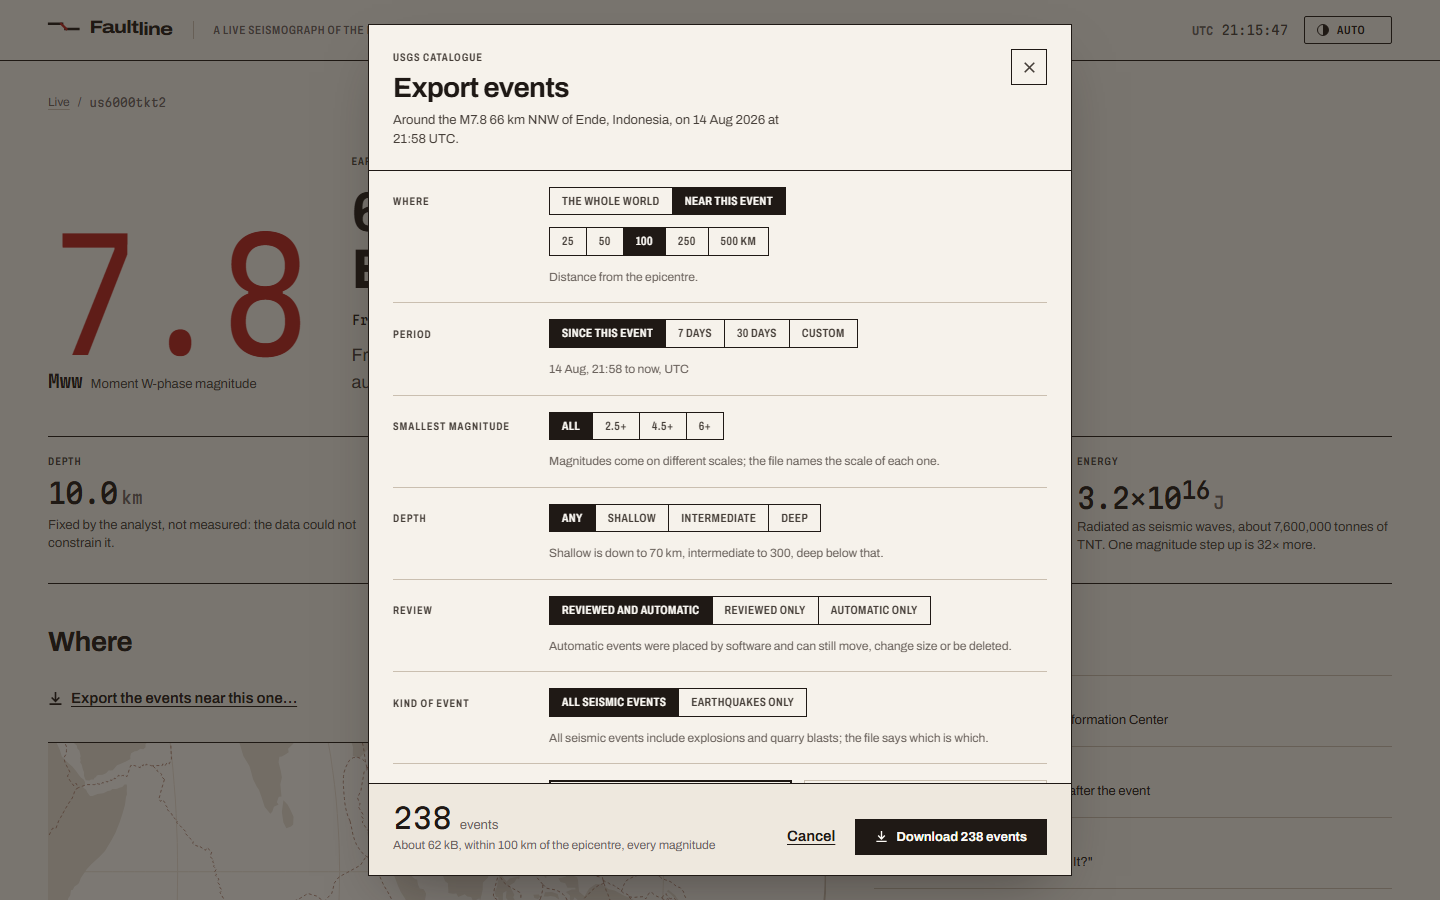
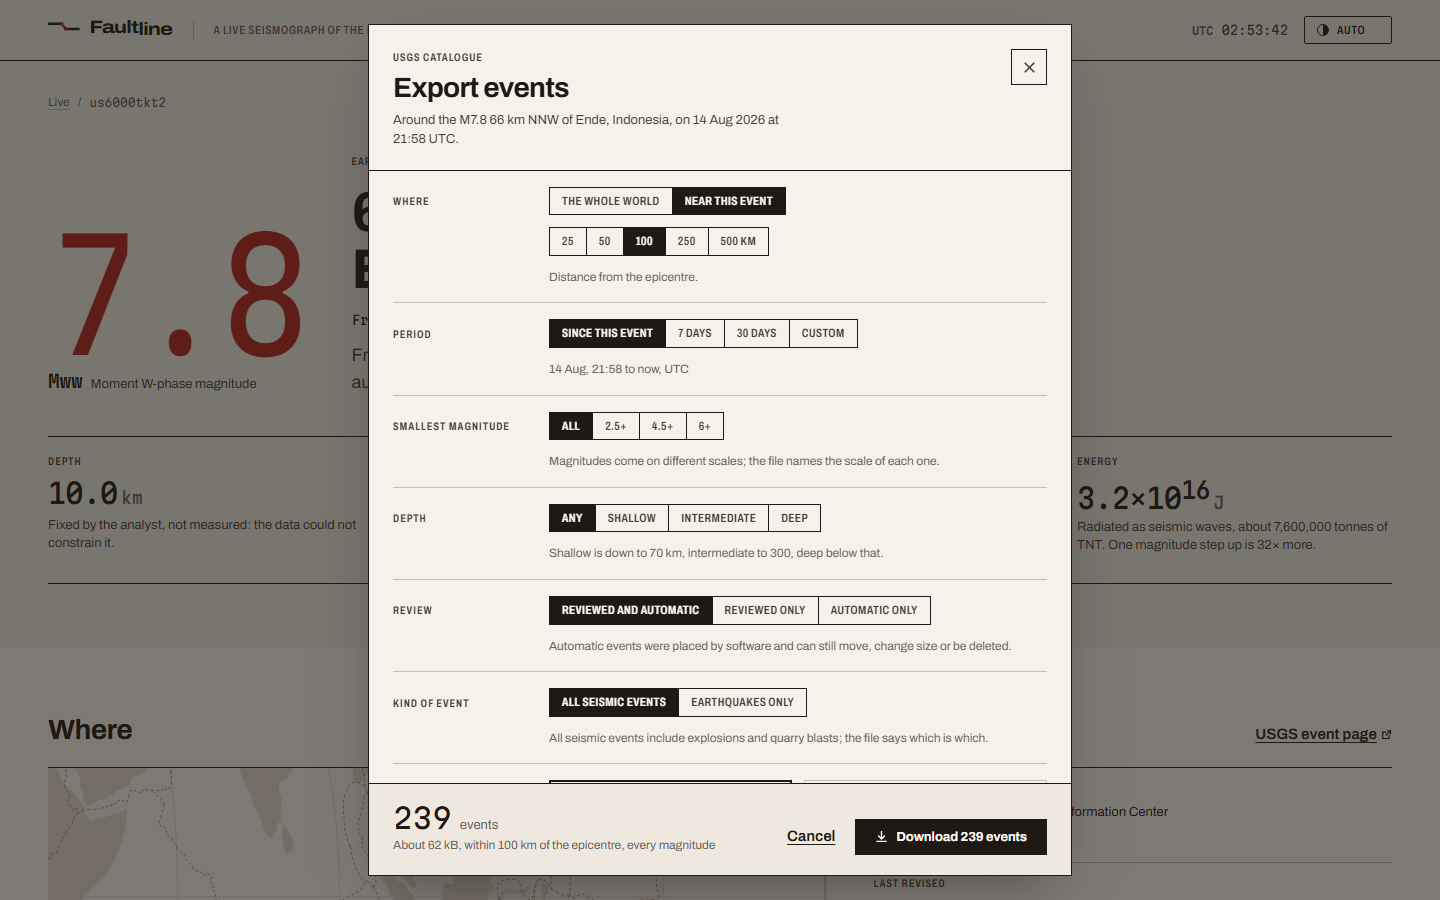
docs: show the event page in bands in the README

diff --git a/README.md b/README.md
@@ -128,7 +128,7 @@ Depths are unsure in two directions. Many are fixed by an analyst when the data 
 - **The log is an index, not a data grid.** Five facets, magnitude, region, depth, review and kind, list their options with the count the list would hold with that option and the other filters kept, so an option that leads nowhere says so before it is followed. The region is read out of the USGS place name, where the Californian networks write California and Mexico as codes and a remote event names only its seismic region. The search matches the place and its region without accents, so "pahala" finds Pāhala, and marks what it found. Where there is room the facets are a column beside the table, and over the table the count leads, then each filter in force as a chip that takes it off. Options and chips are links and the search is a plain form, so all of them work before the page has hydrated, and the long tail of regions opens in a native popover anchored in CSS. Narrower, the facets move into a sheet, and on a phone each event takes two lines; the table spells out its roles in its markup, since restyling rows as grids strips them in some browsers. The export opens on the same filters, as far as the catalogue can select by them, and names the ones it leaves in the log.
 - **Missing data is a value, never a zero.** A magnitude not computed yet shows an em-dash, a depth fixed by an analyst says so instead of posing as a measurement, and every uncertainty sits next to the number it qualifies.
 - **The design system is tokens and cascade layers.** Colours are OKLCH, declared once each with `light-dark()`, so a theme is nothing more than a `color-scheme`. The theme is a cookie the server reads, so the first paint is already right, with no inline script. Archivo and Martian Mono are self-hosted under content-hashed names, preloaded, and backed by local fallbacks whose metrics are matched with Capsize, so the swap does not move the layout. Icons are drawn for the app in the wordmark's square-ended stroke, on a 16 px grid, inlined as SVG by one component, and decoration wherever a word already says the same.
-- **The page is in bands, laid out by the grid.** Each section runs edge to edge, taking turns between the page's colour and a raised one, while its content keeps to the page's column. The page is a grid whose outer tracks are the gutters, and each band a subgrid across all three, so no wrapper repeats the page's width and nothing in a band can drift out of line with the rest. On a raised band a chart is drawn on the band itself, and a page in bands ends on its last one, with no gap or rule between it and the footer.
+- **Pages are in bands, laid out by the grid.** Each section runs edge to edge, taking turns between the page's colour and a raised one, while its content keeps to the page's column. A page is a grid whose outer tracks are the gutters, and each band a subgrid across all three, so no wrapper repeats the page's width and nothing in a band can drift out of line with the rest. On an event's page the map and its record sit side by side on one grid, each taking both its rows through a subgrid, so their headings share a line and their frames start and end on the same rules. On a raised band a chart is drawn on the band itself, and a page that ends on one runs straight into the footer, with no gap or rule between them.
 - **Two dependencies are patched, each with its reason.** TanStack Query read one symbol off the whole `@angular/core` namespace, which kept every export of Angular in the first load: 160 kB more on every page, caught by the bundle budget, since tightened to catch the next one. It did: a library pipe used only inside a `@defer` block is imported through its package's whole namespace, which added 50 kB to the first load, most of it `@angular/common`, until the block's content became a component of the app. Angular's incremental hydration dropped a click that landed on a section already hydrating, which cost the log's Export button its first press on a slow connection. Both are `pnpm patch`es, explained in `pnpm-workspace.yaml`, and keyed so that an upgrade touching either file fails the install rather than dropping the fix.
 - **Boundaries are enforced, not agreed.** ESLint rejects imports that cross layers: `src/shared` is framework-free, `src/server` never imports Angular, `src/app/ui` knows nothing about earthquakes, and the browser code only reaches the BFF over HTTP.
 
